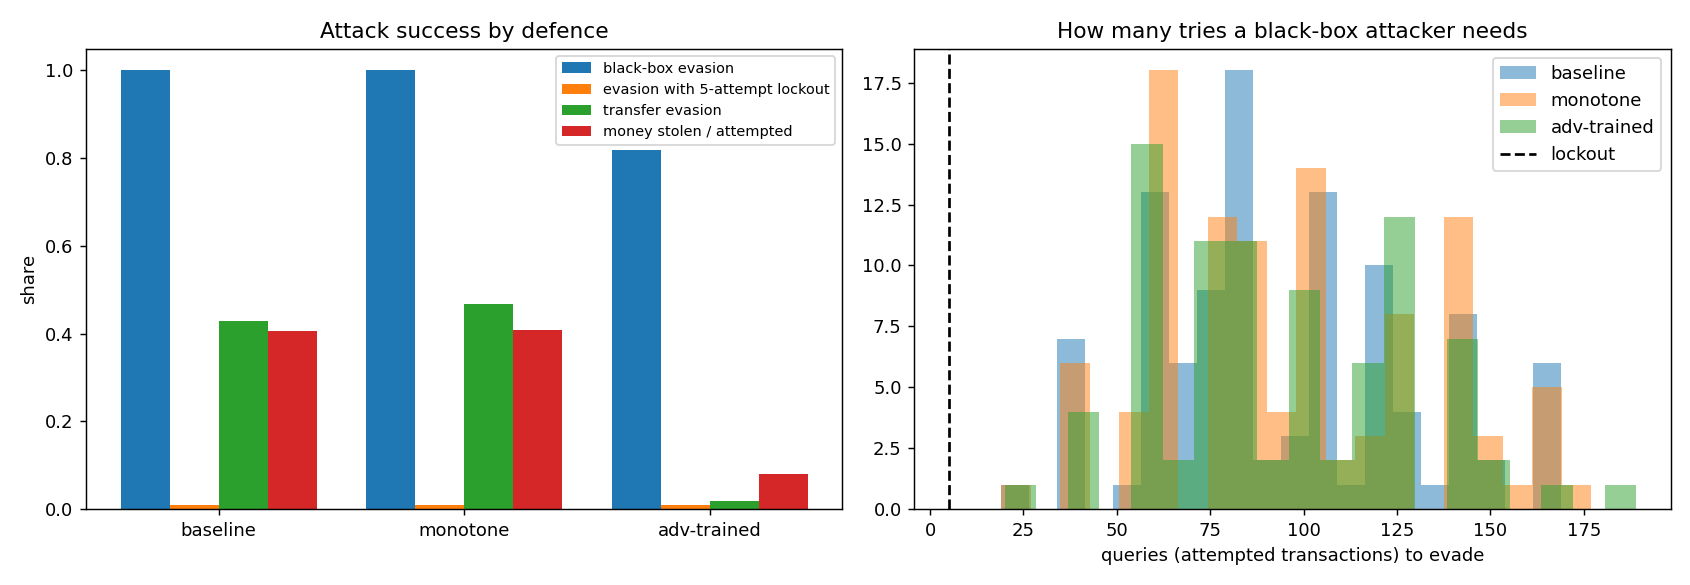
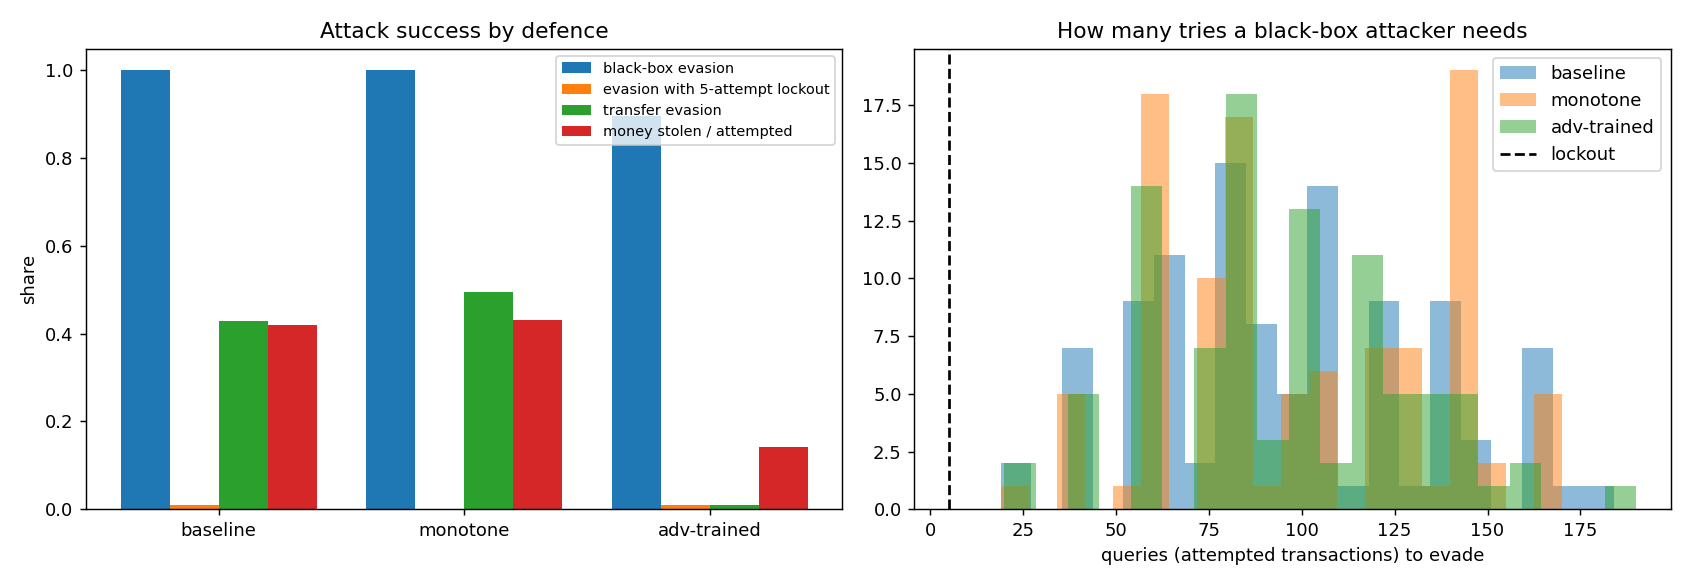
Count every probe against the lockout and keep the surrogate's own scoring in transfer attacks
greedy() checked the query limit only between rounds, so an attacker under a 5-attempt lockout could submit a whole round of candidates, about 14 probes, before being stopped. Candidates are now cut to the remaining budget. transfer() rebuilt the surrogate as a plain Scorer, which silently dropped any subclass's feature mapping; it now copies the scorer and only lowers the threshold. Benchmark results regenerated: the conclusions hold (lockout 0-1%, adversarial training cuts transfer evasion from 43% to 1%).

diff --git a/advlab/attacks.py b/advlab/attacks.py
@@ -9,6 +9,7 @@ profit     The economic attacker: try amounts from high to low and keep the high
 """
 from __future__ import annotations
 
+import copy
 from dataclasses import dataclass, field
 
 import numpy as np
@@ -34,7 +35,7 @@ def greedy(scorer: Scorer, orig: pd.Series, threat: ThreatModel, max_queries: in
     s = float(scorer.score_raw(cur.to_frame().T)[0])
     queries, path = 1, [("start", None, s)]
     while s >= scorer.threshold and queries < max_queries:
-        moves = threat.candidates(orig, cur)
+        moves = threat.candidates(orig, cur)[: max_queries - queries]  # every probe counts against the limit
         if not moves:
             break
         cands = pd.DataFrame([_with(cur, k, v) for k, v in moves])
@@ -52,7 +53,8 @@ def greedy(scorer: Scorer, orig: pd.Series, threat: ThreatModel, max_queries: in
 
 def transfer(target: Scorer, surrogate: Scorer, orig: pd.Series, threat: ThreatModel) -> AttackResult:
     """Craft against the surrogate with a safety margin, then one real attempt."""
-    margin = Scorer(surrogate.name, surrogate.model, surrogate.threshold * 0.5)
+    margin = copy.copy(surrogate)  # keep the surrogate's own scoring (subclasses featurize differently)
+    margin.threshold = surrogate.threshold * 0.5
     r = greedy(margin, orig, threat, max_queries=2000)
     s = float(target.score_raw(r.adv.to_frame().T)[0])
     return AttackResult(s < target.threshold and threat.valid(orig, r.adv), r.adv, s, 1, r.cost, r.path)
